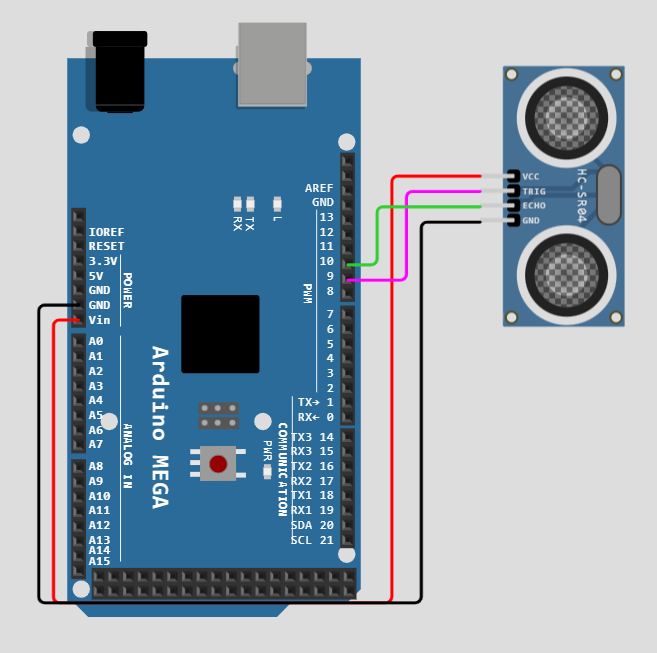
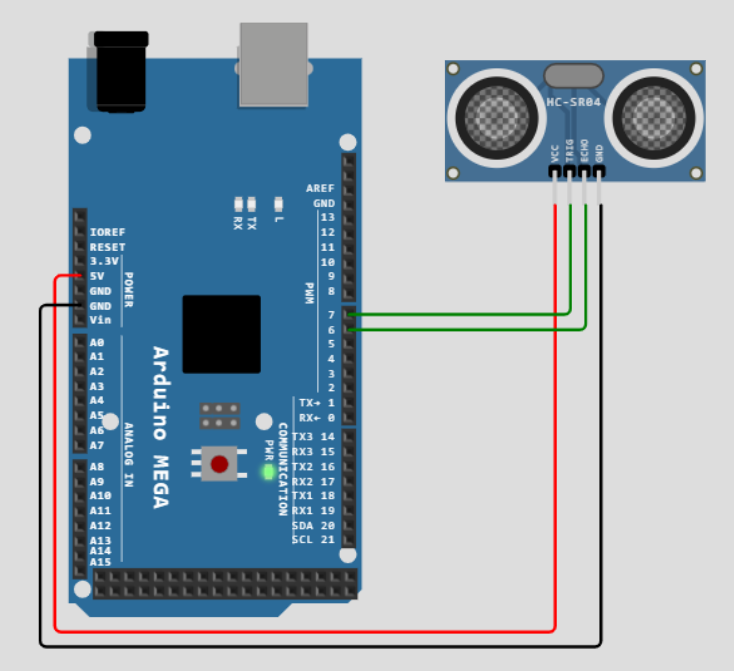
Modified for ultrasonic sensor

diff --git a/Serial Data Transfer/Py Dummy (ignore it)/serial_dummy.py b/Serial Data Transfer/Py Dummy (ignore it)/serial_dummy.py
@@ -1,0 +1,34 @@
+import serial
+import random
+import time
+
+# Inisialisasi koneksi serial
+ser = serial.Serial('COM12', 9600)  # Ganti 'COM1' dengan port serial virtual yang Anda gunakan
+
+def generate_random_data():
+    return random.randint(2, 250)
+
+def main():
+    try:
+        while True:
+            data = generate_random_data()
+            ser.write(str(data).encode())
+            print(f"Data terkirim: {data}")
+
+            time.sleep(1)
+
+            # Setiap 5 detik, mengubah data secara acak
+            if time.time() % 5 == 0:
+                print("Mengubah data...")
+                data = generate_random_data()
+                ser.write(str(data).encode())
+                print(f"Data terkirim: {data}")
+
+            time.sleep(1)
+
+    except KeyboardInterrupt:
+        ser.close()
+        print("Koneksi serial ditutup.")
+
+if __name__ == "__main__":
+    main()
